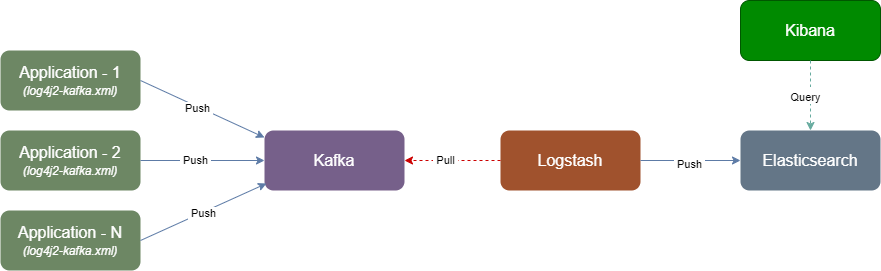
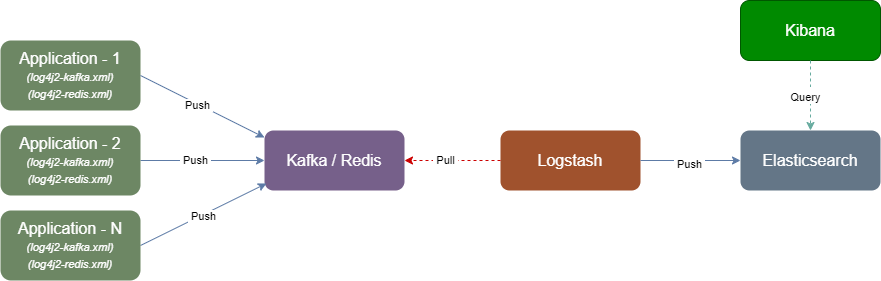
20231212

diff --git a/hp-soa-starter/hp-soa-starter-web/src/main/java/io/github/hpsocket/soa/starter/web/config/ContextConfig.java b/hp-soa-starter/hp-soa-starter-web/src/main/java/io/github/hpsocket/soa/starter/web/config/ContextConfig.java
@@ -39,7 +39,7 @@ public class ContextConfig
         if(!proxy.isEnabled())
             return;
         
-        String lcScheme = GeneralHelper.safeTrimString(proxy.getScheme()).toLowerCase();
+        String scheme = GeneralHelper.safeTrimString(proxy.getScheme()).toLowerCase();
         String host = GeneralHelper.safeTrimString(proxy.getHost());
         String userName = GeneralHelper.safeTrimString(proxy.getUserName());
         String password = GeneralHelper.safeTrimString(proxy.getPassword());
@@ -49,16 +49,16 @@ public class ContextConfig
         if(GeneralHelper.isStrEmpty(proxy.getHost()) || proxy.getPort() <= 0)
             throw new RuntimeException(String.format("({}) init fail -> 'hp.soa.web.proxy.host' or 'hp.soa.web.proxy.port' property is empty or invalid", WebConfig.class.getSimpleName()));
         
-        if(GeneralHelper.isStrNotEmpty(lcScheme)
-            && !lcScheme.equalsIgnoreCase("http")
-            && !lcScheme.equalsIgnoreCase("https")
-            && !lcScheme.equalsIgnoreCase("socks")
-            && !lcScheme.equalsIgnoreCase("sock4")
-            && !lcScheme.equalsIgnoreCase("sock5")
+        if(GeneralHelper.isStrNotEmpty(scheme)
+            && !scheme.equalsIgnoreCase("http")
+            && !scheme.equalsIgnoreCase("https")
+            && !scheme.equalsIgnoreCase("socks")
+            && !scheme.equalsIgnoreCase("sock4")
+            && !scheme.equalsIgnoreCase("sock5")
         )
             throw new RuntimeException(String.format("({}) init fail -> 'hp.soa.web.proxy.scheme' property is invalid", WebConfig.class.getSimpleName()));
         
-        if(lcScheme.isEmpty() || lcScheme.startsWith("http"))
+        if(scheme.isEmpty() || scheme.startsWith("http"))
         {
             System.setProperty("http.proxySet", "true");
             System.setProperty("http.proxyHost", host);
@@ -82,12 +82,12 @@ public class ContextConfig
                 System.setProperty("https.proxyPassword", password);
             }
         }
-        else if(lcScheme.startsWith("sock"))
+        else if(scheme.startsWith("sock"))
         {
             System.setProperty("proxySet", "true");
             System.setProperty("socksProxyHost", host);
             System.setProperty("socksProxyPort", String.valueOf(port));
-            System.setProperty("socksProxyVersion", String.valueOf(lcScheme.equals("sock4") ? 4 : 5));
+            System.setProperty("socksProxyVersion", String.valueOf(scheme.equals("sock4") ? 4 : 5));
             
             if(GeneralHelper.isStrNotEmpty(userName))
             {

diff --git a/hp-soa-framework/hp-soa-framework-web/src/main/java/io/github/hpsocket/soa/framework/web/server/init/ServerInitializer.java b/hp-soa-framework/hp-soa-framework-web/src/main/java/io/github/hpsocket/soa/framework/web/server/init/ServerInitializer.java
@@ -35,6 +35,8 @@ public class ServerInitializer
     public static final String SYSTEM_PROPERTIES_FILE_KEY           = "hp.soa.system.properties.file";
     /** 默认系统属性配置文件 */
     public static final String DEFAULT_SYSTEM_PROPERTIES_FILE_PATH  = "/opt/hp-soa/config/system-config.properties";
+    /** HP-SOA 内部属性配置文件 */
+    public static final String HP_SOA_INTERNAL_PROPERTIES_FILE_PATH = "classpath:hp-soa.properties";
     /** 本机 IP 地址 Key */
     public static final String LOCAL_IP_ADDRESS_KEY                 = "local.ip.address";
     
@@ -45,12 +47,25 @@ public class ServerInitializer
     {
         GeneralHelper.setSystemPropertyIfAbsent(LOCAL_IP_ADDRESS_KEY, SystemUtil.getAddress());
 
-        loadExternalSystemProperties();
+        StandardEnvironment environment = new StandardEnvironment();
+
+        loadInternalSystemProperties(environment);
+        loadExternalSystemProperties(environment);
     }
     
-    private static void loadExternalSystemProperties()
+    private static void loadInternalSystemProperties(StandardEnvironment environment)
     {
-        StandardEnvironment environment = new StandardEnvironment();
+        String filePath = HP_SOA_INTERNAL_PROPERTIES_FILE_PATH;
+        
+        LOGGER.info("hp-soa load internal properties file -> " + filePath);
+
+        String resolvedLocation = environment.resolveRequiredPlaceholders(filePath);
+        
+        loadProperties(filePath, resolvedLocation);
+    }
+    
+    private static void loadExternalSystemProperties(StandardEnvironment environment)
+    {
         String filePath = environment.getProperty(SYSTEM_PROPERTIES_FILE_KEY);
         
         if(GeneralHelper.isStrEmpty(filePath))
@@ -65,6 +80,12 @@ public class ServerInitializer
         LOGGER.info("hp-soa load system properties file -> " + filePath);
 
         String resolvedLocation = "file:" + environment.resolveRequiredPlaceholders(filePath);
+        
+        loadProperties(filePath, resolvedLocation);
+    }
+
+    private static void loadProperties(String filePath, String resolvedLocation)
+    {
         PropertySourceFactory factory = new DefaultPropertySourceFactory();
         Resource resource = new DefaultResourceLoader().getResource(resolvedLocation);
         

diff --git a/hp-soa-starter/hp-soa-starter-web/src/main/java/io/github/hpsocket/soa/starter/web/bootstrap/ExtendedPropertiesFilePostProcessor.java b/hp-soa-starter/hp-soa-starter-web/src/main/java/io/github/hpsocket/soa/starter/web/bootstrap/ExtendedPropertiesFilePostProcessor.java
@@ -64,6 +64,15 @@ public class ExtendedPropertiesFilePostProcessor implements EnvironmentPostProce
             logger.info("hp-soa load extended properties file -> " + filePath);
 
         String resolvedLocation = "file:" + environment.resolveRequiredPlaceholders(filePath);
+        
+        loadProperties(environment, filePath, resolvedLocation);
+        
+        if(!hasPrintLog)
+            hasPrintLog = true;
+    }
+
+    private void loadProperties(ConfigurableEnvironment environment, String filePath, String resolvedLocation)
+    {
         PropertySourceFactory factory = new DefaultPropertySourceFactory();
         Resource resource = new DefaultResourceLoader().getResource(resolvedLocation);
         
@@ -82,9 +91,6 @@ public class ExtendedPropertiesFilePostProcessor implements EnvironmentPostProce
             
             throw new RuntimeException(msg, e);
         }
-        
-        if(!hasPrintLog)
-            hasPrintLog = true;
     }
 
     @Override

diff --git a/hp-soa-framework/hp-soa-framework-gelf/src/main/java/io/github/hpsocket/soa/framework/logging/gelf/log4j2/GelfLogAppender.java b/hp-soa-framework/hp-soa-framework-gelf/src/main/java/io/github/hpsocket/soa/framework/logging/gelf/log4j2/GelfLogAppender.java
@@ -7,6 +7,8 @@ import java.util.Collections;
 import java.util.concurrent.TimeUnit;
 
 import org.apache.logging.log4j.Logger;
+import org.apache.logging.log4j.core.Appender;
+import org.apache.logging.log4j.core.Core;
 import org.apache.logging.log4j.core.Filter;
 import org.apache.logging.log4j.core.LogEvent;
 import org.apache.logging.log4j.core.appender.AbstractAppender;
@@ -168,7 +170,7 @@ import io.github.hpsocket.soa.framework.logging.gelf.intern.*;
  * @author Mark Paluch
  * @author Thomas Herzog
  */
-@Plugin(name = "Gelf", category = "Core", elementType = "appender", printObject = true)
+@Plugin(name = "Gelf", category = Core.CATEGORY_NAME, elementType = Appender.ELEMENT_TYPE, printObject = true)
 public class GelfLogAppender extends AbstractAppender {
 
     private static final Logger LOGGER = StatusLogger.getLogger();
